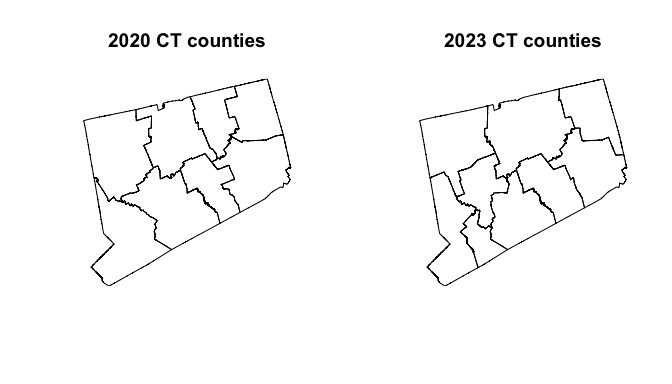
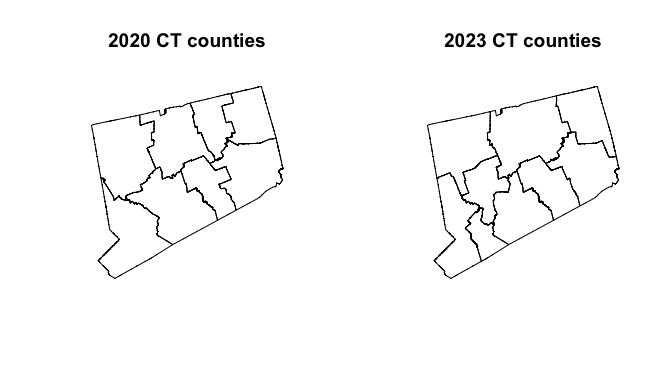
Update readme

diff --git a/README.md b/README.md
@@ -63,7 +63,7 @@ From 2020 to 2023, Connecticut’s county count increased from 8 to 9 and
 the definitions changed:
 
 ``` r
-par(mfrow = c(1, 2), xaxs = "i", yaxs = "i")
+par(mfrow = c(1, 2))
 plot(ct_cnty20$geometry, main = "2020 CT counties")
 plot(ct_cnty23$geometry, main = "2023 CT counties")
 ```
